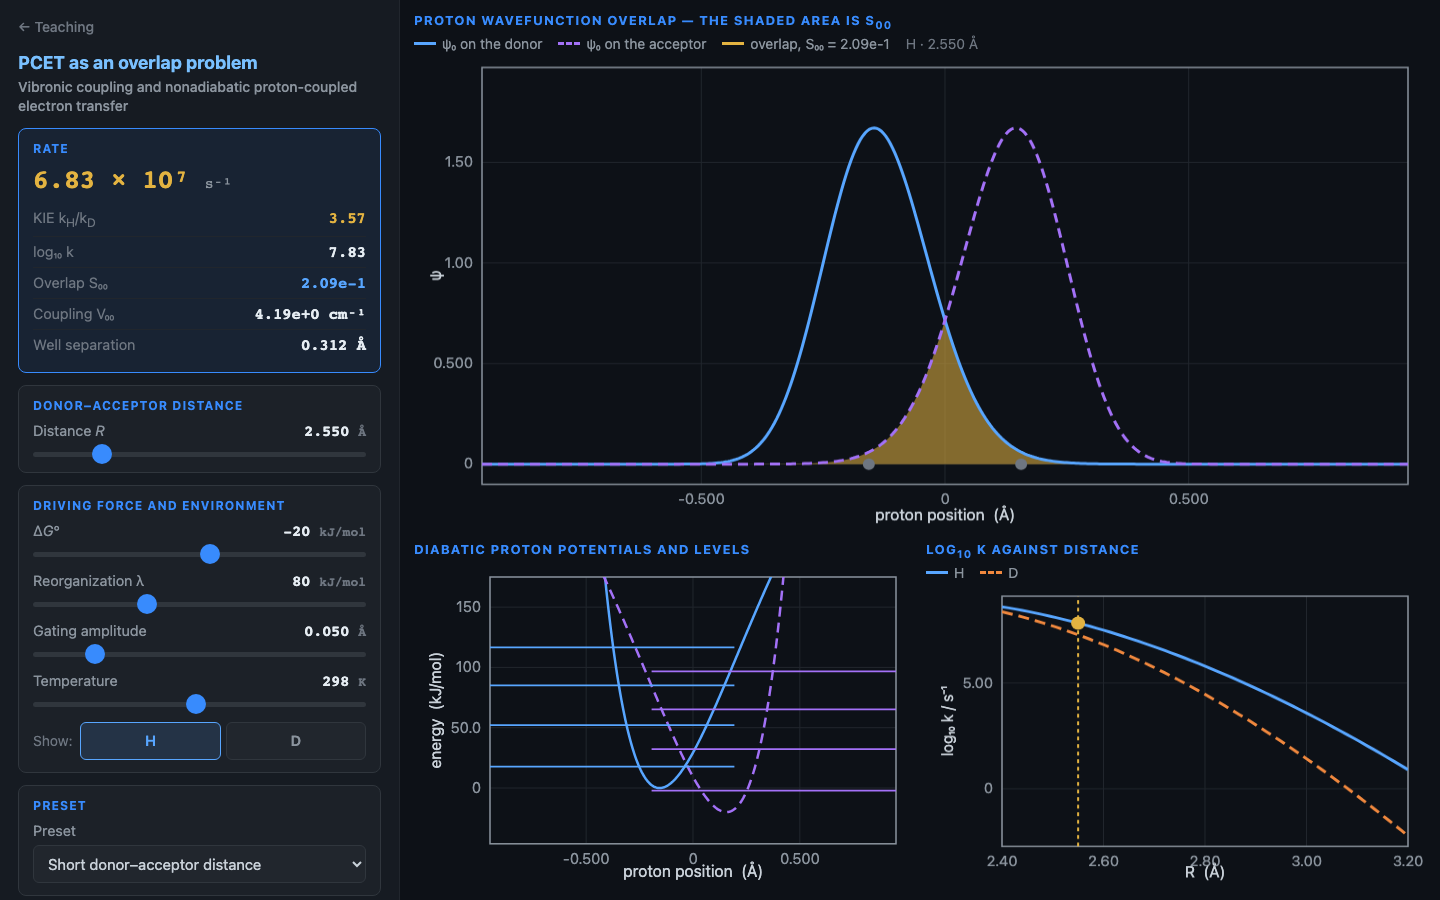
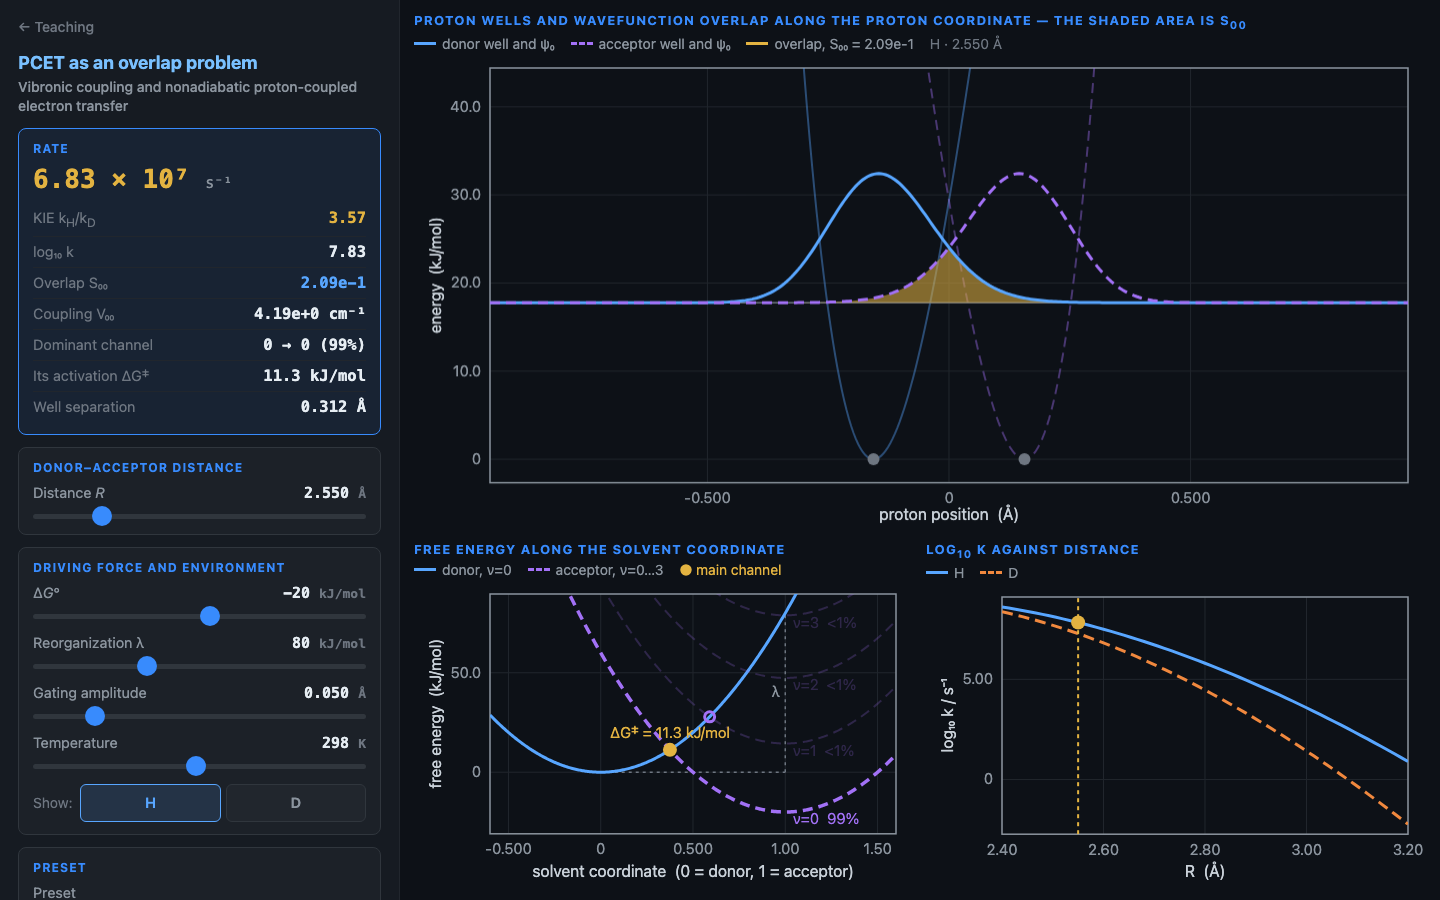
feat(pcet): replace proton-coordinate diabats with vibronic Marcus parabolas
The lower-left panel drew the two Morse wells offset by dG along the
proton coordinate, which reads like a Marcus diagram but is not one, and
left the reorganization energy with no visible effect.

It now shows free energy along the solvent coordinate: the donor parabola
(proton ground state) and one acceptor parabola per vibronic channel
nu = 0..3, lifted by E_nu - E_0. Each channel is drawn with an opacity set
by its share of the rate (|S_0nu|^2 times its Marcus factor); crossings
are marked and the dominant one labelled with its activation free
energy. lambda and dG now both change the picture, and the switch to
excited acceptor channels in the inverted region becomes visible.

The Morse wells move into the overlap panel, with psi_0 drawn at its
zero-point level, so the proton and solvent coordinates each get their
own panel. Readouts gain the dominant channel and its activation energy.
Thumbnail regenerated.

diff --git a/apps/nqe_pcet_overlap.html b/apps/nqe_pcet_overlap.html
@@ -154,12 +154,13 @@
 
 <div id="right">
   <div class="panel" id="p-overlap">
-    <div class="panel-title">Proton wavefunction overlap &mdash; the shaded area is S<sub>00</sub></div>
+    <div class="panel-title">Proton wells and wavefunction overlap along the proton coordinate &mdash; the shaded area is S<sub>00</sub></div>
     <div class="legend" id="leg-ov"></div>
     <canvas id="cv-ov"></canvas>
   </div>
   <div class="panel">
-    <div class="panel-title">Diabatic proton potentials and levels</div>
+    <div class="panel-title">Free energy along the solvent coordinate</div>
+    <div class="legend" id="leg-pot"></div>
     <canvas id="cv-pot"></canvas>
   </div>
   <div class="panel">
@@ -171,7 +172,7 @@
 
 <script type="module">
 import * as U from '../js/nqe/units.js';
-import { DEFAULTS, well, psiAt, rateAt, rateGated } from '../js/nqe/pcet.js';
+import { DEFAULTS, well, psiAt, overlapAt, rateAt, rateGated } from '../js/nqe/pcet.js';
 import { createPlot } from '../js/nqe/plot.js';
 import { slider, segmented, presetSelect, hashState, scheduleRecompute, onResize, ISOTOPE }
   from '../js/nqe/ui.js';
@@ -224,11 +225,12 @@ document.getElementById('mass-box').appendChild(mass.el);
 
 // ── plots ──────────────────────────────────────────────────────
 const pOv = createPlot(document.getElementById('cv-ov'),
-  { xlabel: 'proton position  (Å)', ylabel: 'ψ' });
+  { xlabel: 'proton position  (Å)', ylabel: 'energy  (kJ/mol)', pad: { l: 76 } });
 const pPot = createPlot(document.getElementById('cv-pot'),
-  { xlabel: 'proton position  (Å)', ylabel: 'energy  (kJ/mol)', pad: { l: 76, b: 42 } });
+  { xlabel: 'solvent coordinate  (0 = donor, 1 = acceptor)', ylabel: 'free energy  (kJ/mol)',
+    pad: { l: 76, b: 52 } });
 const pK = createPlot(document.getElementById('cv-k'),
-  { xlabel: 'R  (Å)', ylabel: 'log₁₀ k / s⁻¹', pad: { l: 76, b: 42 } });
+  { xlabel: 'R  (Å)', ylabel: 'log₁₀ k / s⁻¹', pad: { l: 76, b: 52 } });
 
 let sweep = { key: null };
 
@@ -244,57 +246,96 @@ function render() {
   const kH = rateGated('H', p), kD = rateGated('D', p);
   const kShown = P.m === 'H' ? kH : kD;
 
-  // ── panel A: the overlap itself, both psi_0 on one baseline ──
-  const xs = [], yR = [], yP = [], yMin = [];
+  // ── panel A: both Morse wells, with psi_0 drawn at its zero-point level ──
+  // Along the proton coordinate the two diabatic wells are mirror images with
+  // the same zero-point energy; the driving force lives on the solvent axis.
+  const toK = U.hartreeToKJmol;
   const xRb = -cur.d / 2, xPb = cur.d / 2;
   const lo = xRb - 1.5, hi = xPb + 1.5;
   const N = 400;
+  const e0 = toK(w.E[0]);
+  const vCross = toK(DE * (1 - Math.exp(-w.alpha * cur.d / 2)) ** 2);
+  const eTop = Math.max(2.5 * e0, 1.15 * vCross);
+  const xs = [], vR = [], vP = [], raw = [];
   for (let i = 0; i < N; i++) {
     const x = lo + ((hi - lo) * i) / (N - 1);
-    const a = psiAt(w, 0, x - xRb);          // reactant well at xRb
-    const b = psiAt(w, 0, xPb - x);          // product well is the mirror image
+    const t1 = 1 - Math.exp(-w.alpha * (x - xRb));
+    const t2 = 1 - Math.exp(w.alpha * (x - xPb));
     xs.push(U.bohrToAng(x));
-    yR.push(a);
-    yP.push(b);
-    yMin.push(Math.min(a, b));
+    vR.push(toK(DE * t1 * t1));
+    vP.push(toK(DE * t2 * t2));
+    raw.push([psiAt(w, 0, x - xRb), psiAt(w, 0, xPb - x)]);   // product well is the mirror image
   }
-  const yMax = Math.max(...yR, ...yP);
+  const psiMax = Math.max(...raw.map(([a, b]) => Math.max(a, b)));
+  const amp = (0.55 * (eTop - e0)) / psiMax;
+  const yR = raw.map(([a]) => e0 + a * amp);
+  const yP = raw.map(([, b]) => e0 + b * amp);
+  const yMin = raw.map(([a, b]) => e0 + Math.min(a, b) * amp);
   pOv.clear()
-     .setLimits([xs[0], xs[xs.length - 1]], [-0.06 * yMax, 1.18 * yMax])
-     .fillBetween(xs, yMin, 0, { color: '#e3b341', alpha: 0.55 })
+     .setLimits([xs[0], xs[xs.length - 1]], [-0.06 * eTop, eTop])
+     .line(xs, vR, { color: ISOTOPE.H.color + '66', width: 2 })
+     .line(xs, vP, { color: '#a371f766', width: 2, dash: [10, 6] })
+     .levels([e0], { color: '#6e7681', width: 1.5 })
+     .fillBetween(xs, yMin, e0, { color: '#e3b341', alpha: 0.55 })
      .line(xs, yR, { color: ISOTOPE.H.color, width: 3 })
      .line(xs, yP, { color: '#a371f7', width: 3, dash: [10, 6] })
      .marker(U.bohrToAng(xRb), 0, { color: '#6e7681', r: 6 })
      .marker(U.bohrToAng(xPb), 0, { color: '#6e7681', r: 6 })
      .draw();
   document.getElementById('leg-ov').innerHTML =
-    `<span><i style="border-color:${ISOTOPE.H.color}"></i>ψ₀ on the donor</span>` +
-    `<span><i style="border-color:#a371f7;border-top-style:dashed"></i>ψ₀ on the acceptor</span>` +
+    `<span><i style="border-color:${ISOTOPE.H.color}"></i>donor well and ψ₀</span>` +
+    `<span><i style="border-color:#a371f7;border-top-style:dashed"></i>acceptor well and ψ₀</span>` +
     `<span><i style="border-color:#e3b341"></i>overlap, S₀₀ = ${cur.s00.toExponential(2)}</span>` +
     `<span style="color:#6e7681">${P.m} · ${(P.R).toFixed(3)} Å</span>`;
 
-  // ── panel B: the diabatic potentials with their levels ──
-  const xs2 = [], vR = [], vP = [];
-  for (let i = 0; i < N; i++) {
-    const x = lo + ((hi - lo) * i) / (N - 1);
-    const t1 = 1 - Math.exp(-w.alpha * (x - xRb));
-    const t2 = 1 - Math.exp(w.alpha * (x - xPb));
-    xs2.push(U.bohrToAng(x));
-    vR.push(U.hartreeToKJmol(DE * t1 * t1));
-    vP.push(U.hartreeToKJmol(DE * t2 * t2 + p.dG));
+  // ── panel B: Marcus free-energy parabolas, one product parabola per vibronic channel ──
+  // Reactant in its proton ground state (excited donor levels have ~e^-14 population
+  // at 3000 cm^-1); product parabolas are lifted by the acceptor's vibrational
+  // excitation E_nu - E_0. Each channel's share of the rate (at this R, no gating)
+  // is |S_0nu|^2 times its Marcus factor; V_el and the prefactor are common.
+  const lam = P.lam, kTk = toK(U.kT(P.T));
+  const ch = [];
+  for (let nu = 0; nu < NSTATE; nu++) {
+    const S = overlapAt(w, 0, nu, cur.d);
+    const D = P.dG + toK(w.E[nu] - w.E[0]);
+    const Ga = (D + lam) ** 2 / (4 * lam);
+    ch.push({ nu, D, Ga, q: 0.5 * (1 + D / lam), wt: S * S * Math.exp(-Ga / kTk) });
   }
-  const topK = U.hartreeToKJmol(w.E[NSTATE - 1]) * 1.5 + Math.max(0, P.dG);
-  const botK = Math.min(0, P.dG) - 0.15 * Math.abs(topK);
-  pPot.clear().setLimits([xs2[0], xs2[xs2.length - 1]], [botK, topK])
-      .line(xs2, vR, { color: ISOTOPE.H.color, width: 2.5 })
-      .line(xs2, vP, { color: '#a371f7', width: 2.5, dash: [10, 6] });
-  for (let n = 0; n < NSTATE; n++) {
-    const eR = U.hartreeToKJmol(w.E[n]);
-    const eP = U.hartreeToKJmol(w.E[n]) + P.dG;
-    pPot.levels([eR], { xrange: [xs2[0], U.bohrToAng(xRb) + 0.35], color: ISOTOPE.H.color, width: 1.8 });
-    pPot.levels([eP], { xrange: [U.bohrToAng(xPb) - 0.35, xs2[xs2.length - 1]], color: '#a371f7', width: 1.8 });
+  const tot = ch.reduce((a, c) => a + c.wt, 0);
+  for (const c of ch) c.share = tot > 0 ? c.wt / tot : (c.nu === 0 ? 1 : 0);
+  const dom = ch.reduce((a, c) => (c.share > a.share ? c : a));
+  const shown = ch.filter((c) => c.nu === 0 || c.share >= 1e-3);
+
+  const gTop = 1.12 * Math.max(lam, ...shown.map((c) => c.Ga), ...shown.map((c) => c.D + 0.15 * lam));
+  const gLo = Math.min(0, ...shown.map((c) => c.D));
+  const gBot = gLo - 0.1 * (gTop - gLo);
+  const qs = [];
+  for (let i = 0; i < N; i++) qs.push(-0.6 + (2.2 * i) / (N - 1));
+  pPot.clear().setLimits([-0.6, 1.6], [gBot, gTop])
+      .line([0, 1], [0, 0], { color: '#6e7681', width: 1.5, dash: [3, 4] })
+      .line([1, 1], [0, lam], { color: '#6e7681', width: 1.5, dash: [3, 4] })
+      .text(0.97, lam / 2, 'λ', { color: '#8b949e', align: 'right', baseline: 'middle' })
+      .line(qs, qs.map((q) => lam * q * q), { color: ISOTOPE.H.color, width: 3 });
+  for (const c of [...ch].reverse()) {
+    const a = Math.round(255 * (0.22 + 0.78 * c.share)).toString(16).padStart(2, '0');
+    pPot.line(qs, qs.map((q) => lam * (q - 1) ** 2 + c.D),
+      { color: '#a371f7' + a, width: 2 + 1.5 * c.share, dash: [10, 6] });
+    if (c.D > gBot && c.D < gTop) {
+      pPot.text(1.04, c.D, `ν=${c.nu}  ${fmtPct(c.share)}`,
+        { color: '#a371f7' + a, baseline: 'top' });
+    }
   }
-  pPot.draw();
+  for (const c of shown) {
+    if (c !== dom) pPot.marker(c.q, c.Ga, { color: '#a371f7', r: 5, hollow: true });
+  }
+  pPot.marker(dom.q, dom.Ga, { color: '#e3b341', r: 7 })
+      .text(dom.q, dom.Ga + 0.04 * (gTop - gBot), `ΔG‡ = ${dom.Ga.toFixed(1)} kJ/mol`,
+        { color: '#e3b341', align: 'center' })
+      .draw();
+  document.getElementById('leg-pot').innerHTML =
+    `<span><i style="border-color:${ISOTOPE.H.color}"></i>donor, ν=0</span>` +
+    `<span><i style="border-color:#a371f7;border-top-style:dashed"></i>acceptor, ν=0…${NSTATE - 1}</span>` +
+    `<span style="color:#e3b341">● main channel</span>`;
 
   // ── panel C: log10 k against R, both isotopes ──
   // The sweep does not depend on R, so dragging R only moves the marker.
@@ -331,6 +372,8 @@ function render() {
     row('log₁₀ k', Math.log10(ks).toFixed(2)) +
     row('Overlap S₀₀', cur.s00.toExponential(2), P.m === 'D' ? 'd' : 'h') +
     row('Coupling V₀₀', (U.hartreeToCm(VEL * cur.s00)).toExponential(2) + ' cm⁻¹') +
+    row('Dominant channel', `0 → ${dom.nu}  (${fmtPct(dom.share)})`) +
+    row('Its activation ΔG‡', dom.Ga.toFixed(1) + ' kJ/mol') +
     row('Well separation', U.bohrToAng(cur.d).toFixed(3) + ' Å');
   document.getElementById('kie-hi-note').style.display = (kH / kD) > 1000 ? '' : 'none';
 
@@ -349,6 +392,8 @@ function render() {
 
   hashState.write(P);
 }
+
+const fmtPct = (f) => (f >= 0.995 ? '100%' : f >= 0.01 ? (100 * f).toFixed(0) + '%' : '<1%');
 
 function fmtSci(v) {
   const e = Math.floor(Math.log10(v));
